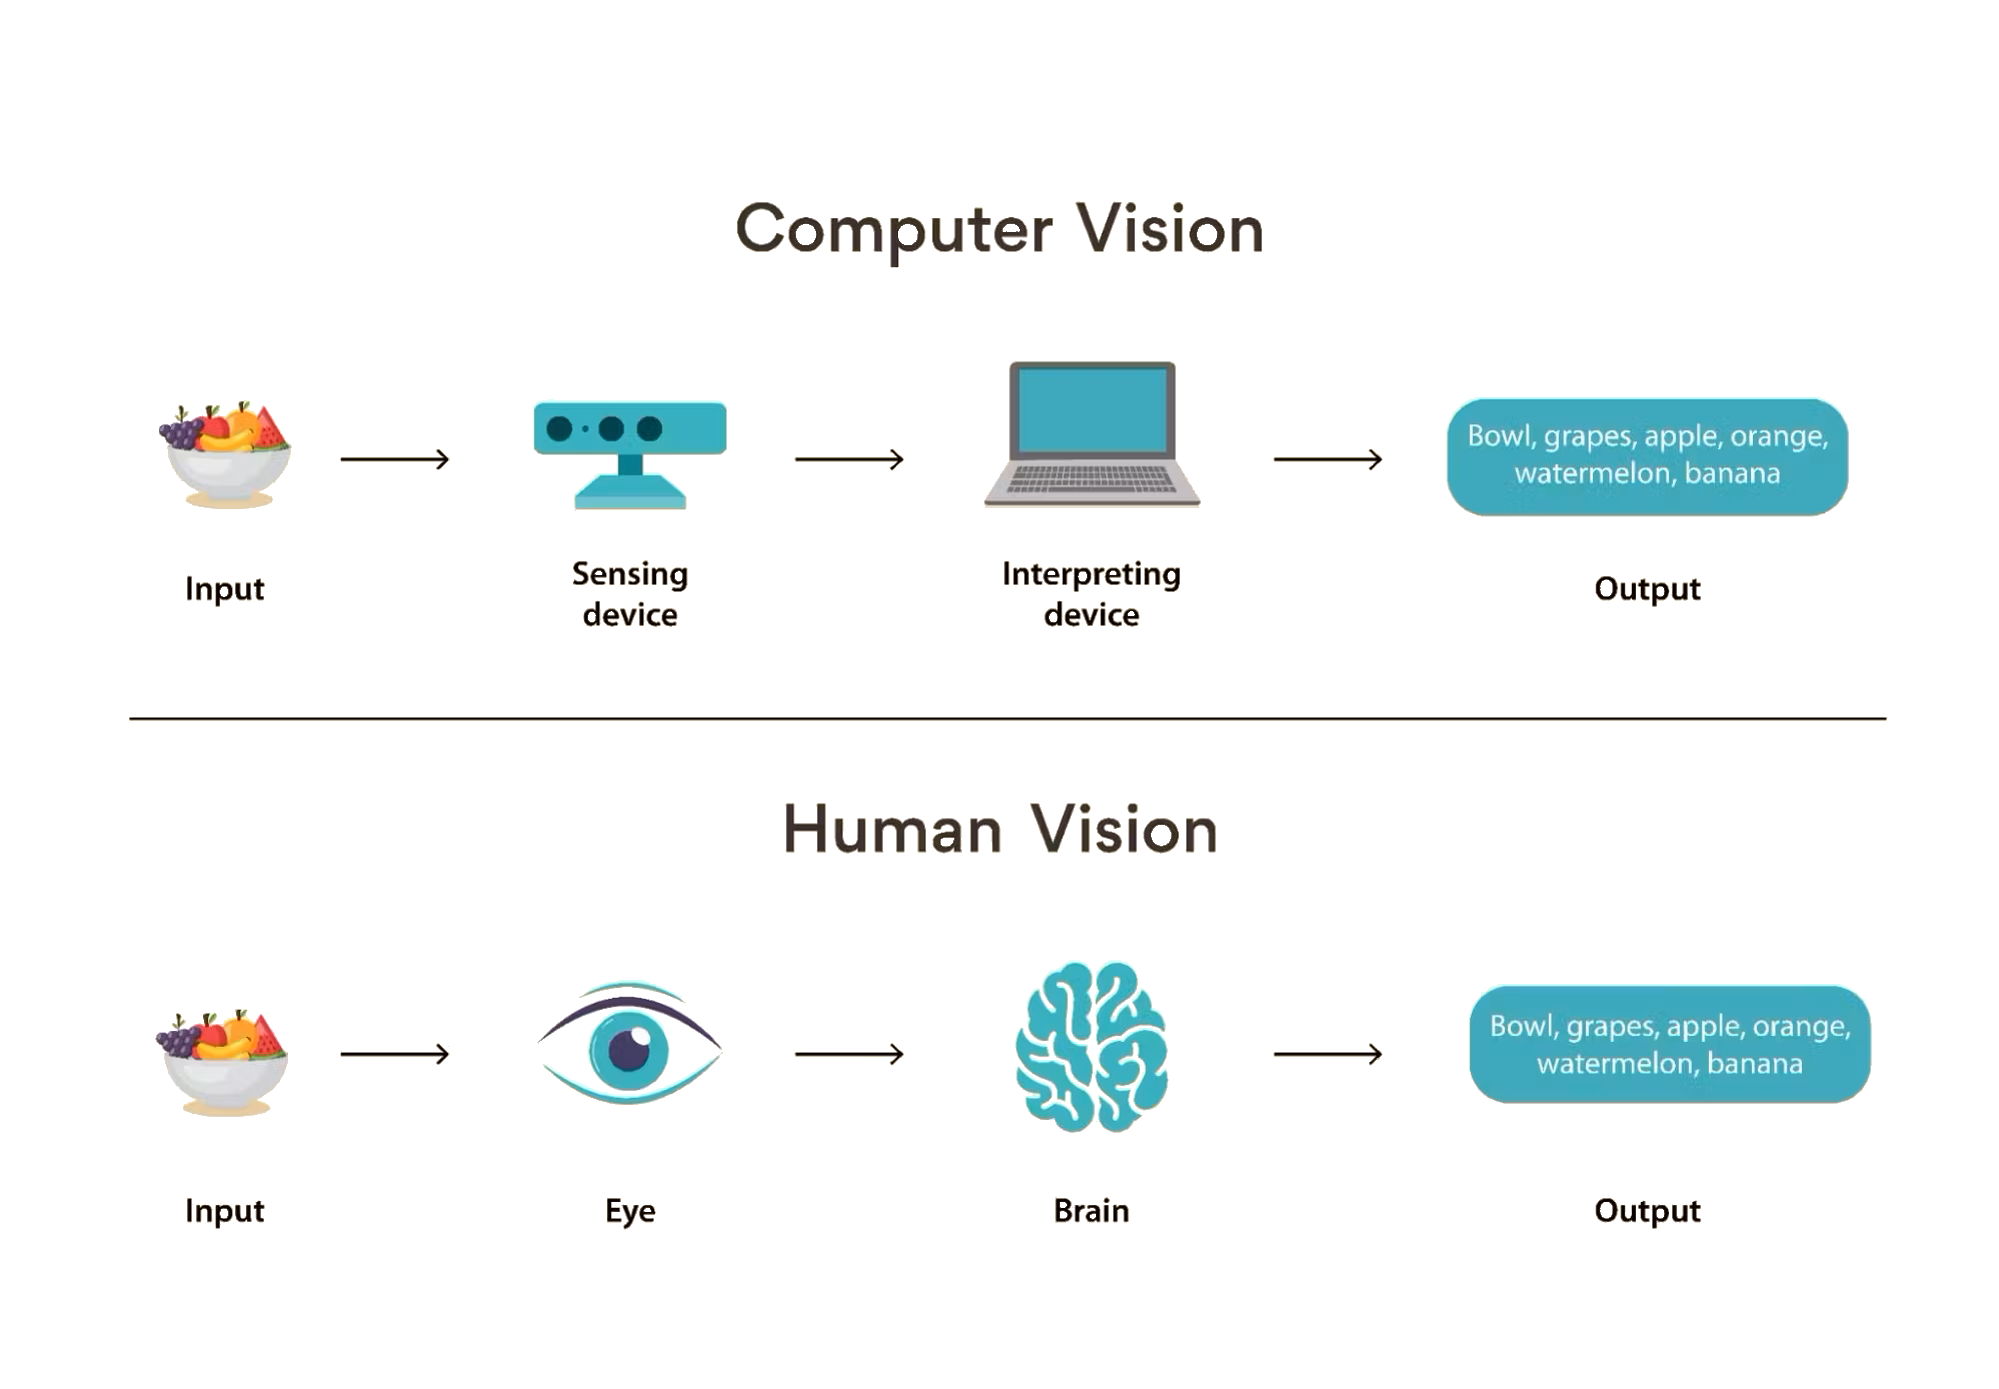
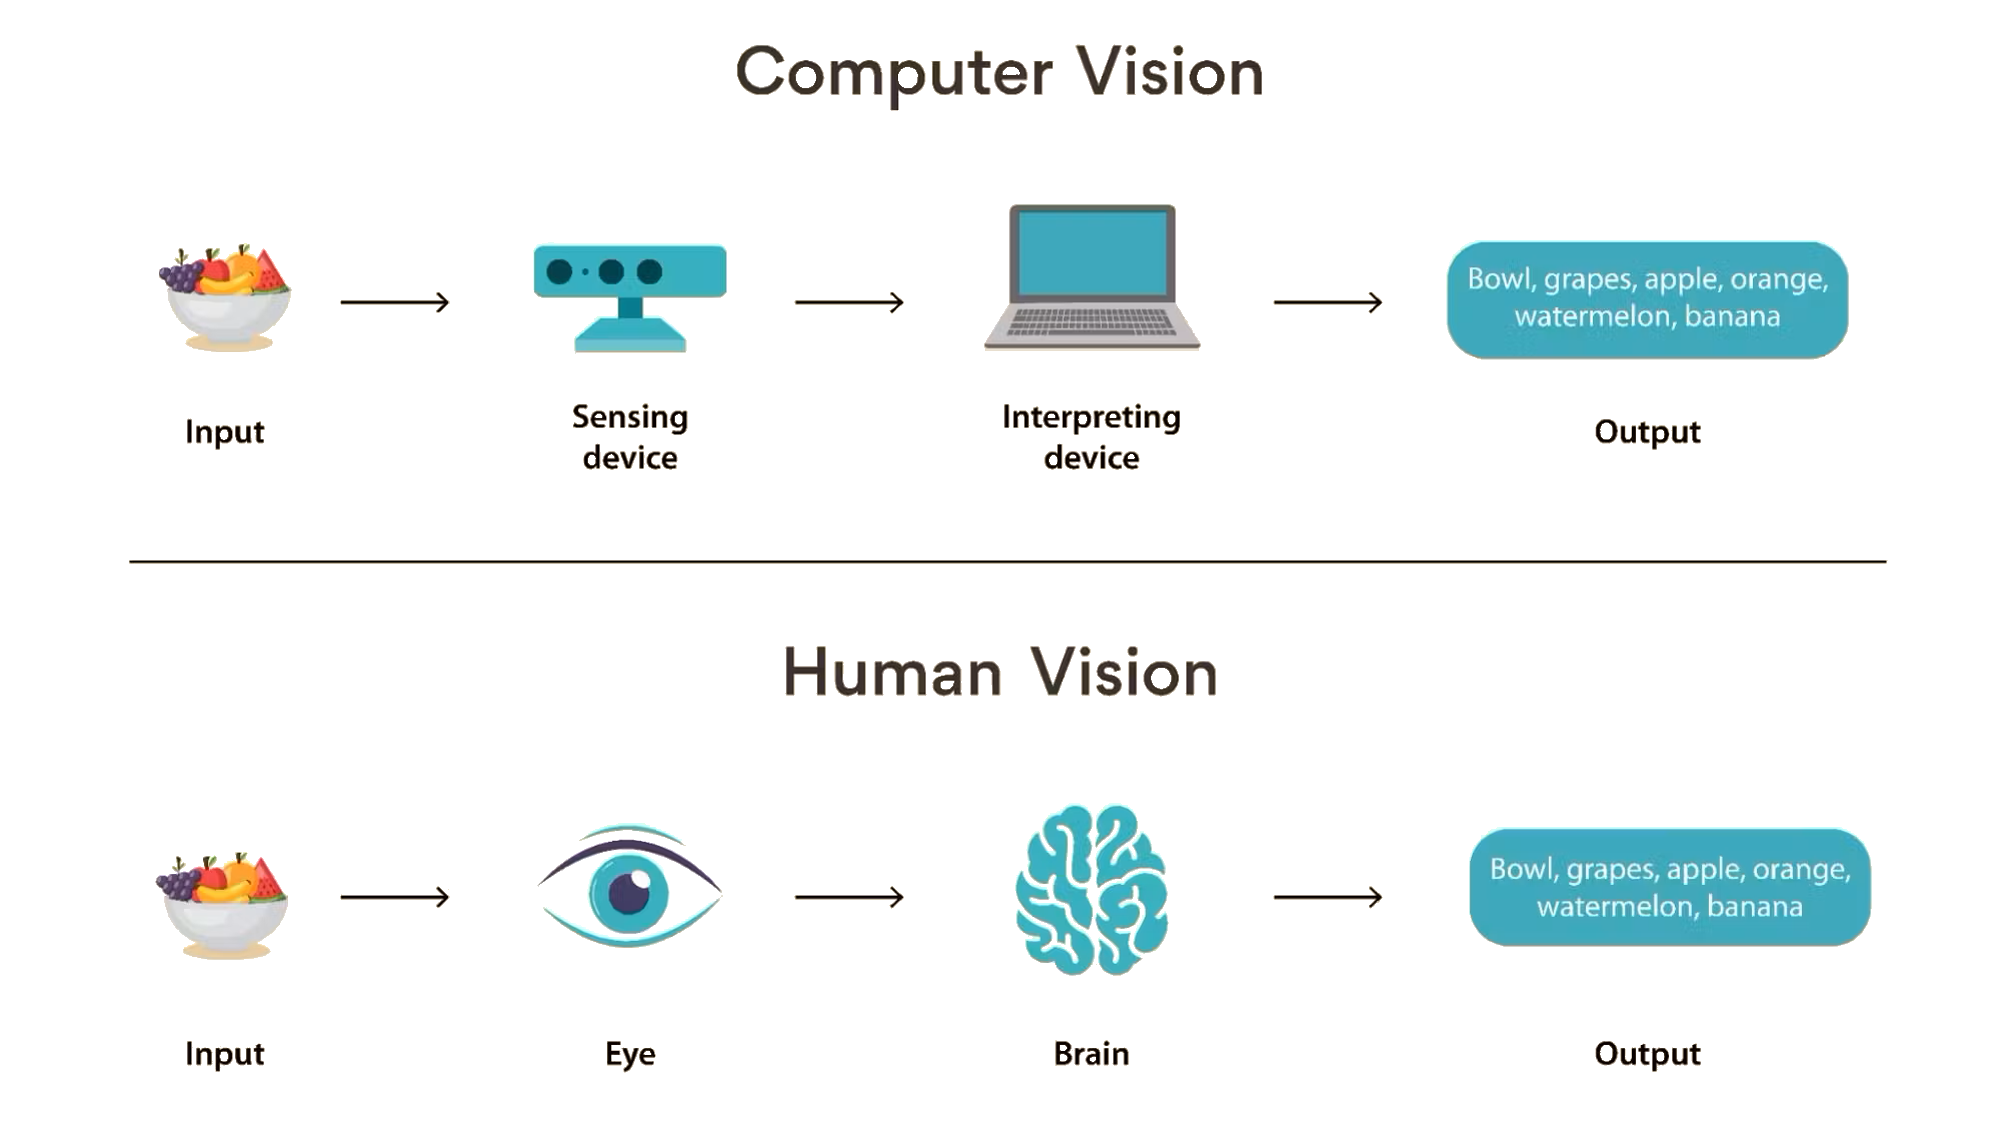
Updates from Overleaf

diff --git a/chapters/04-theory.tex b/chapters/04-theory.tex
@@ -27,11 +27,13 @@ A subfield of \gls{ai} is \gls{ml}, which focuses on enabling computers to learn
 
 One area where \gls{ai} and \gls{ml} are commonly applied is computer vision. This field enables machines to interpret, analyze, and extract meaningful information from visual data, such as digital images and videos. The primary goal of computer vision is to replicate the human ability to perceive and understand visual information, as illustrated in Figure \ref{fig:computer-vision}.
 
-\begin{figure}[h!] \centering \includegraphics[width=0.75\linewidth]{figures/theory/machine-learning/computer-vision.png} \caption[Computer vision vs. human vision]{Comparison of computer vision and human vision, illustrating the similarities and differences in processing visual data \cite{turing:computer-vision}.} \label{fig:computer-vision} \end{figure}
+\begin{figure}[h!] \centering \includegraphics[width=0.85\linewidth]{figures/theory/machine-learning/computer-vision.png} \caption[Computer vision vs. human vision]{Comparison of computer vision and human vision, illustrating the similarities and differences in processing visual data \cite{turing:computer-vision}.} \label{fig:computer-vision} \end{figure}
 
 \subsection{Artificial Neural Network}
 
 One of the most influential technologies in modern \gls{ml} is the \gls{ann}. These networks excel at handling a wide range of data types, including images, audio, and text. Different neural network architectures are suited for specific tasks. For instance, \glspl{rnn}, especially those incorporating \gls{lstm}, are effective for sequential data such as text. \\
+
+\newpage
 
 In contrast, \glspl{cnn} are particularly effective in processing image data. Their architecture leverages convolutional layers to extract spatial features. \textbf{Spatial features} refer to patterns related to the position and arrangement of pixels in an image, making \glspl{cnn} highly efficient in image classification and object detection. An example of such a network applied to handwritten digit classification is shown in Figure~\ref{fig:convolutional-neural-network}.  \\
 
@@ -39,7 +41,7 @@ In contrast, \glspl{cnn} are particularly effective in processing image data. Th
 
 A key component of \glspl{cnn} is their ability to generate \textbf{feature maps}, which are the result of detecting spatial features at different locations in the image. These feature maps transform the input into a representation that highlights important visual patterns. As the image moves through the layers of the network, these feature maps capture crucial details such as edges, textures, and more complex shapes. Each feature map is the output of a convolutional layer, where filters are applied to extract relevant features. By emphasizing the most significant aspects of the image, these maps enable the network to learn and recognize patterns. This hierarchical approach to learning visual data has made \glspl{cnn} essential in a wide range of computer vision applications, from medical diagnostics to autonomous driving \cite{encord:cnn}. \\
 
-\subsection{Supervised Learning}
+\subsection{Supervised Learning and Classifcation}
 
 Another fundamental concept in machine learning is supervised learning, where models are trained on labeled datasets. Each example in the dataset includes both an input and the correct output, allowing the model to learn how the input relates to the expected output. After training, the model can generalize this learned relationship to make predictions on new, unseen data \cite{geeksforgeeks:supervised-learning, google:supervised-learning}. \\
 
@@ -62,6 +64,8 @@ To facilitate deployment across diverse environments and platforms, \gls{onnx} p
 \subsection{Inference}
 
 Once a model is trained, inference is the process of using the trained model to make predictions on new, unseen data. In the context of object detection, inference involves feeding an input image into the model, which processes the image and outputs predictions, usually in the form of object classes, bounding box coordinates, and confidence scores \cite{nvidia:inference}. \\
+
+\newpage
 
 \subsection{Model Performance}
 
@@ -90,10 +94,12 @@ Central to object detection is the use of bounding boxes. Bounding boxes are rec
 
 \begin{figure}[h!]
     \centering
-    \includegraphics[width=0.75\linewidth]{figures/theory/image-recognition/bbox-example.png}
+    \includegraphics[width=0.60\linewidth]{figures/theory/image-recognition/bbox-example.png}
     \caption[Bounding box in object detection]{Example of a bounding boxes used in object detection to localize objects within an image \cite{peopleforai:boundingbox}.}
     \label{fig:boundingbox}
 \end{figure}
+
+\newpage
 
 \subsection{Anchor Boxes}
 
@@ -101,10 +107,12 @@ To improve detection accuracy across different object sizes and shapes, models u
 
 \begin{figure}[h!]
     \centering
-    \includegraphics[width=0.7\linewidth]{figures/theory/image-recognition/anchor-boxes.png}
+    \includegraphics[width=0.56\linewidth]{figures/theory/image-recognition/anchor-boxes.png}
     \caption[Anchor boxes in object detection]{Illustration of anchor boxes on the feature map. These serve as initial reference boxes from which the model adjusts to better fit the actual objects in the image \cite{thinkautonomous:anchorboxes}.}
     \label{fig:anchor-box}
 \end{figure}
+
+\newpage
 
 \subsection{Intersection Over Union}
 
@@ -127,13 +135,15 @@ An IoU value of 1.0 means a perfect match between the prediction and the ground 
     \label{fig:nms}
 \end{figure}
 
+\newpage
+
 \section{Geometric Methods in Image Processing}
 \label{sec:geometric-methods}
 
-\subsection*{Normalization and Scaling}
+\subsection{Normalization and Scaling}
 \label{subsec:normalization-and-scaling}
 
-\textbf{Normalization} in image processing involves adjusting pixel values to a consistent range, such as [0, 1] or [-1, 1]. This helps improve model performance by making the input data uniform. By adjusting pixel intensities from their original 0–255 range, normalization allows the model to process inputs more consistently, leading to faster and more stable convergence.
+Normalization in image processing involves adjusting pixel values to a consistent range, such as [0, 1] or [-1, 1]. This helps improve model performance by making the input data uniform. By adjusting pixel intensities from their original 0–255 range, normalization allows the model to process inputs more consistently, leading to faster and more stable convergence.
 \textbf{Scaling} in image processing and machine learning involves resizing images to the format required by the model, as shown in Figure \ref{fig:scaling} \cite{brownlee:normalization}. 
 
 \begin{figure}[h!]

diff --git a/chapters/06-results.tex b/chapters/06-results.tex
@@ -9,7 +9,7 @@ The application was developed as an open-source project with the intention that 
 
 The project follows clear coding standards and development best practices, making the code easy to understand and modify. All functionality is well documented, enabling future developers to build upon the existing solution. For example, to support new chess variants, integrate additional hardware, or improve the recognition models. To support future development and accessibility, the source code is published in a public Git repository without restrictions on reuse or adaptation. \\
 
-The application itself is a local, camera-based system for digitalizing over-the-board chess games in real time. It detects piece movements on a physical chessboard using image recognition and converts the game into a \gls{pgn} file, which can be viewed or analyzed digitally. The system operates entirely on local hardware, with a frontend interface that allows users to follow games live and a back-end that manages board recognition and game logic. The application is designed to be low-cost, open-source, and easy to maintain, with extensibility in mind for future features. \\
+The application itself is a local, camera-based system for digitalizing over-the-board chess games in real time. It detects piece movements on a physical chessboard using image recognition and converts the game into a \gls{pgn} file, which can be viewed or analyzed digitally. The system operates entirely on local hardware, with a frontend interface that allows users to follow games live and a back-end that manages board recognition and game logic. The application is designed to be low-cost and easy to maintain, with extensibility in mind for future features. \\
 
 The delivered product refers to the final version of the application submitted at the conclusion of this Bachelor’s thesis. The application was developed at the request of the product owner and based on the requirements provided. The initial description served as a general concept rather than a detailed specification, which meant that decisions regarding design, architecture, and technology were left to the development team. Throughout the development process, ideas and design choices were discussed with the product owner and approved during regular meetings.
 
